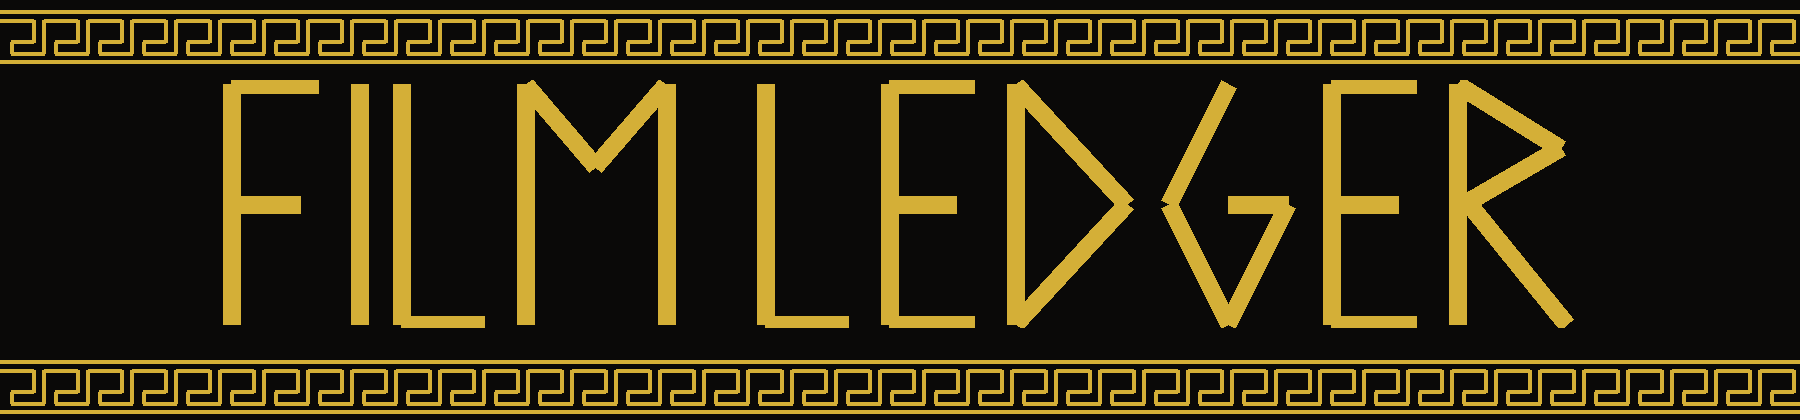
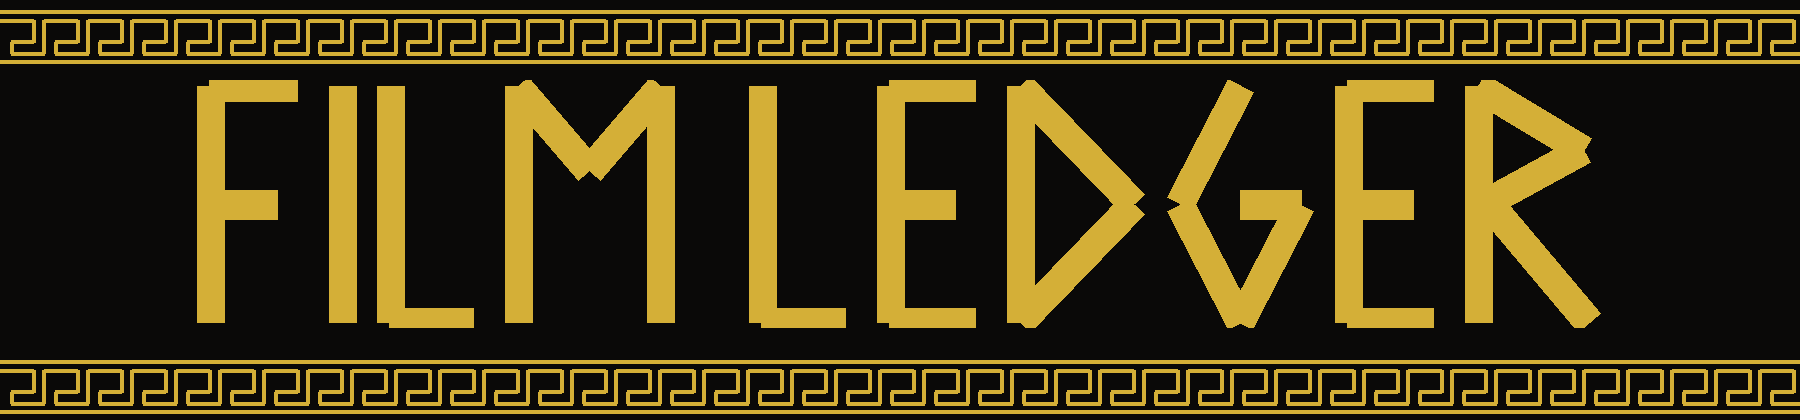
v5.47: thicker header letters
Same locked shapes, heavier strokes.

Changed region(s): [[0.4044, 0.1857, 0.9022, 0.7738], [0.0933, 0.1857, 0.3733, 0.7738]]

diff --git a/index.html b/index.html
@@ -14,8 +14,8 @@
 <body>
   <div class="sticky-top">
     <div class="brand">
-      <img class="brand-mark" src="film-ledger-title.png?v=546" alt="Film Ledger">
-      <span class="brand-ver">v5.46</span>
+      <img class="brand-mark" src="film-ledger-title.png?v=547" alt="Film Ledger">
+      <span class="brand-ver">v5.47</span>
     </div>
 
     <div class="search-bar">
@@ -60,6 +60,6 @@
     <div id="least" class="tabs"></div>
   </div>
 
-  <script src="app.js?v=546"></script>
+  <script src="app.js?v=547"></script>
 </body>
 </html>

diff --git a/app.js b/app.js
@@ -1776,7 +1776,7 @@ function renderSettings() {
         ${ALL_TABS.map(([id, label]) => `<button type="button" class="tab-toggle${visibleTabs().has(id) ? ' on' : ''}" onclick="toggleTabVisibility('${id}')">${escapeHtml(label)}</button>`).join('')}
       </div>
     </div>
-    <p class="backup-note" style="margin-top:14px;">Film Ledger v5.46</p>
+    <p class="backup-note" style="margin-top:14px;">Film Ledger v5.47</p>
   `;
 }
 

diff --git a/service-worker.js b/service-worker.js
@@ -1,11 +1,11 @@
-const CACHE_NAME = 'film-ledger-v5.46';
+const CACHE_NAME = 'film-ledger-v5.47';
 const urlsToCache = [
   './',
   './index.html',
   './styles.css',
-  './app.js?v=546',
+  './app.js?v=547',
   './manifest.json',
-  './film-ledger-title.png?v=546'
+  './film-ledger-title.png?v=547'
 ];
 
 self.addEventListener('install', event => {
